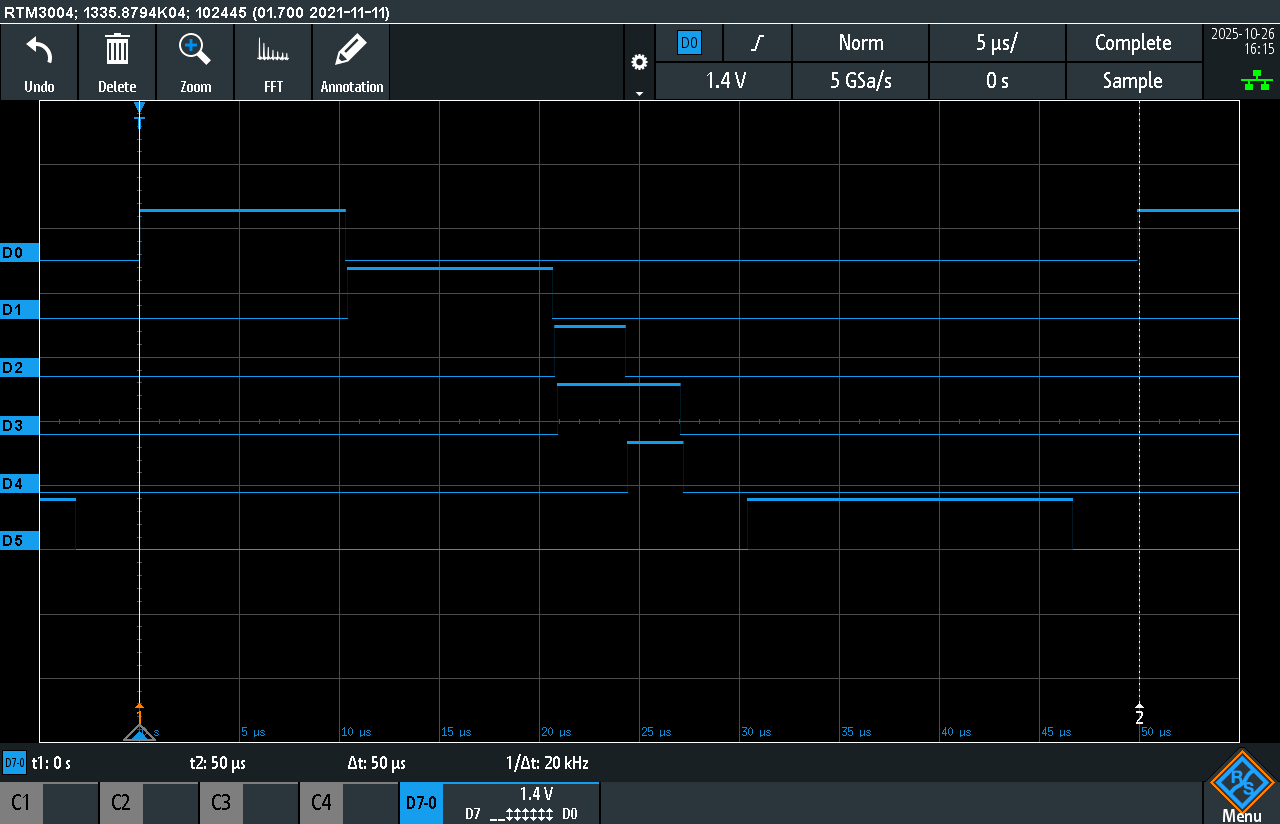
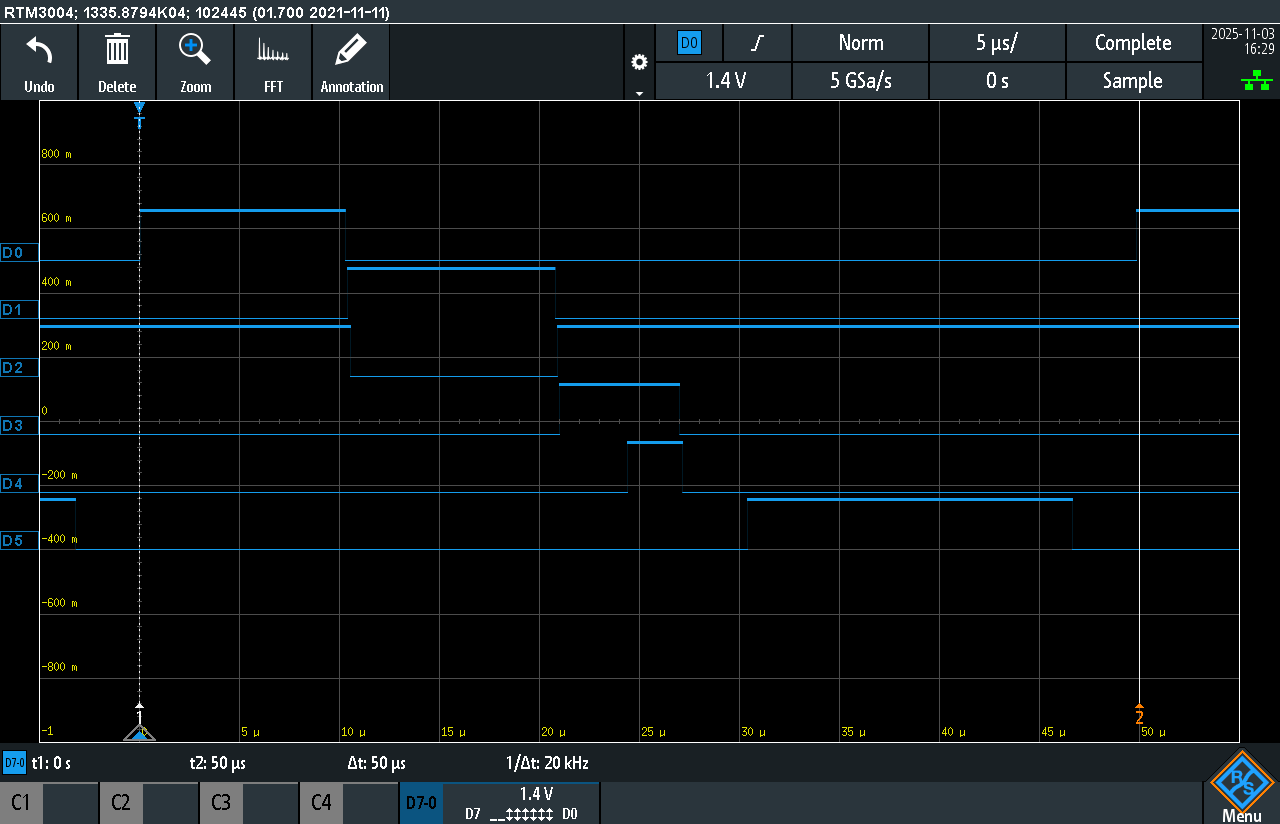
Clear hold line when the opcode is freezed

diff --git a/firmware/ax08-sequencer/main.c b/firmware/ax08-sequencer/main.c
@@ -1,3 +1,7 @@
+/*
+    Sequencer version 0.2.1
+ */
+
 // CONFIG1
 #pragma config FOSC = INTOSC    // Oscillator Selection (INTOSC oscillator: I/O function on CLKIN pin)
 #pragma config WDTE = OFF       // Watchdog Timer Enable (WDT disabled)
@@ -259,6 +263,7 @@ void ax08_seq_run_step() {
         case 1:
             PIN_FREEZE_WORD = false;
             PIN_FREEZE_OPCODE = true;
+            PIN_HOLD_OUTPUT = false;
             break;
         case 2:
             PIN_FREEZE_OPCODE = false;
@@ -273,7 +278,6 @@ void ax08_seq_run_step() {
                 state = AX08_SEQ_STATE_RUN_INSTRUCTION;
             }
 
-            PIN_HOLD_OUTPUT = false;
             PIN_STORE_PC = true;
             break;
         case 4:
@@ -294,7 +298,7 @@ void ax08_seq_run_step() {
         case 6: // Reset mode.
             PIN_FREEZE_WORD = false;
             PIN_FREEZE_OPCODE = false;
-            PIN_HOLD_OUTPUT = false;
+            PIN_HOLD_OUTPUT = true;
             PIN_INCREMENT_PC = false;
             PIN_STORE_PC = false;
             PIN_STORE_OUTPUT = false;
@@ -325,6 +329,7 @@ void ax08_seq_run_instruction_turbo() {
     // FREEZE OPCODE
     PIN_FREEZE_WORD = false;
     PIN_FREEZE_OPCODE = true;
+    PIN_HOLD_OUTPUT = false;
     __delay_us(10);
 
     // FREEZE RESULT
@@ -340,7 +345,6 @@ void ax08_seq_run_instruction_turbo() {
         // Switch to idle state but finish running this instruction.
         state = AX08_SEQ_STATE_IDLE;
     }
-    PIN_HOLD_OUTPUT = false;
     PIN_STORE_PC = true;
     __delay_us(2);
     _delay(3);
